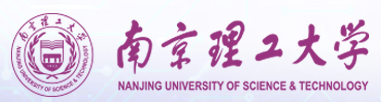
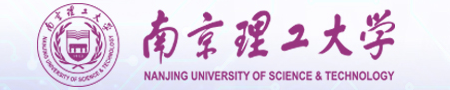
html

diff --git a/index.html b/index.html
@@ -184,7 +184,7 @@ window.onload=function()
    <div class="text-left">
  	<a href="http://www.njust.edu.cn/" target="_blank">
     <img alt="njust" 
-    style="vertical-align:middle; height:2.8em;"
+    height="90" width="450"
     src="./njust.png"/>
     </a>
    </div>
